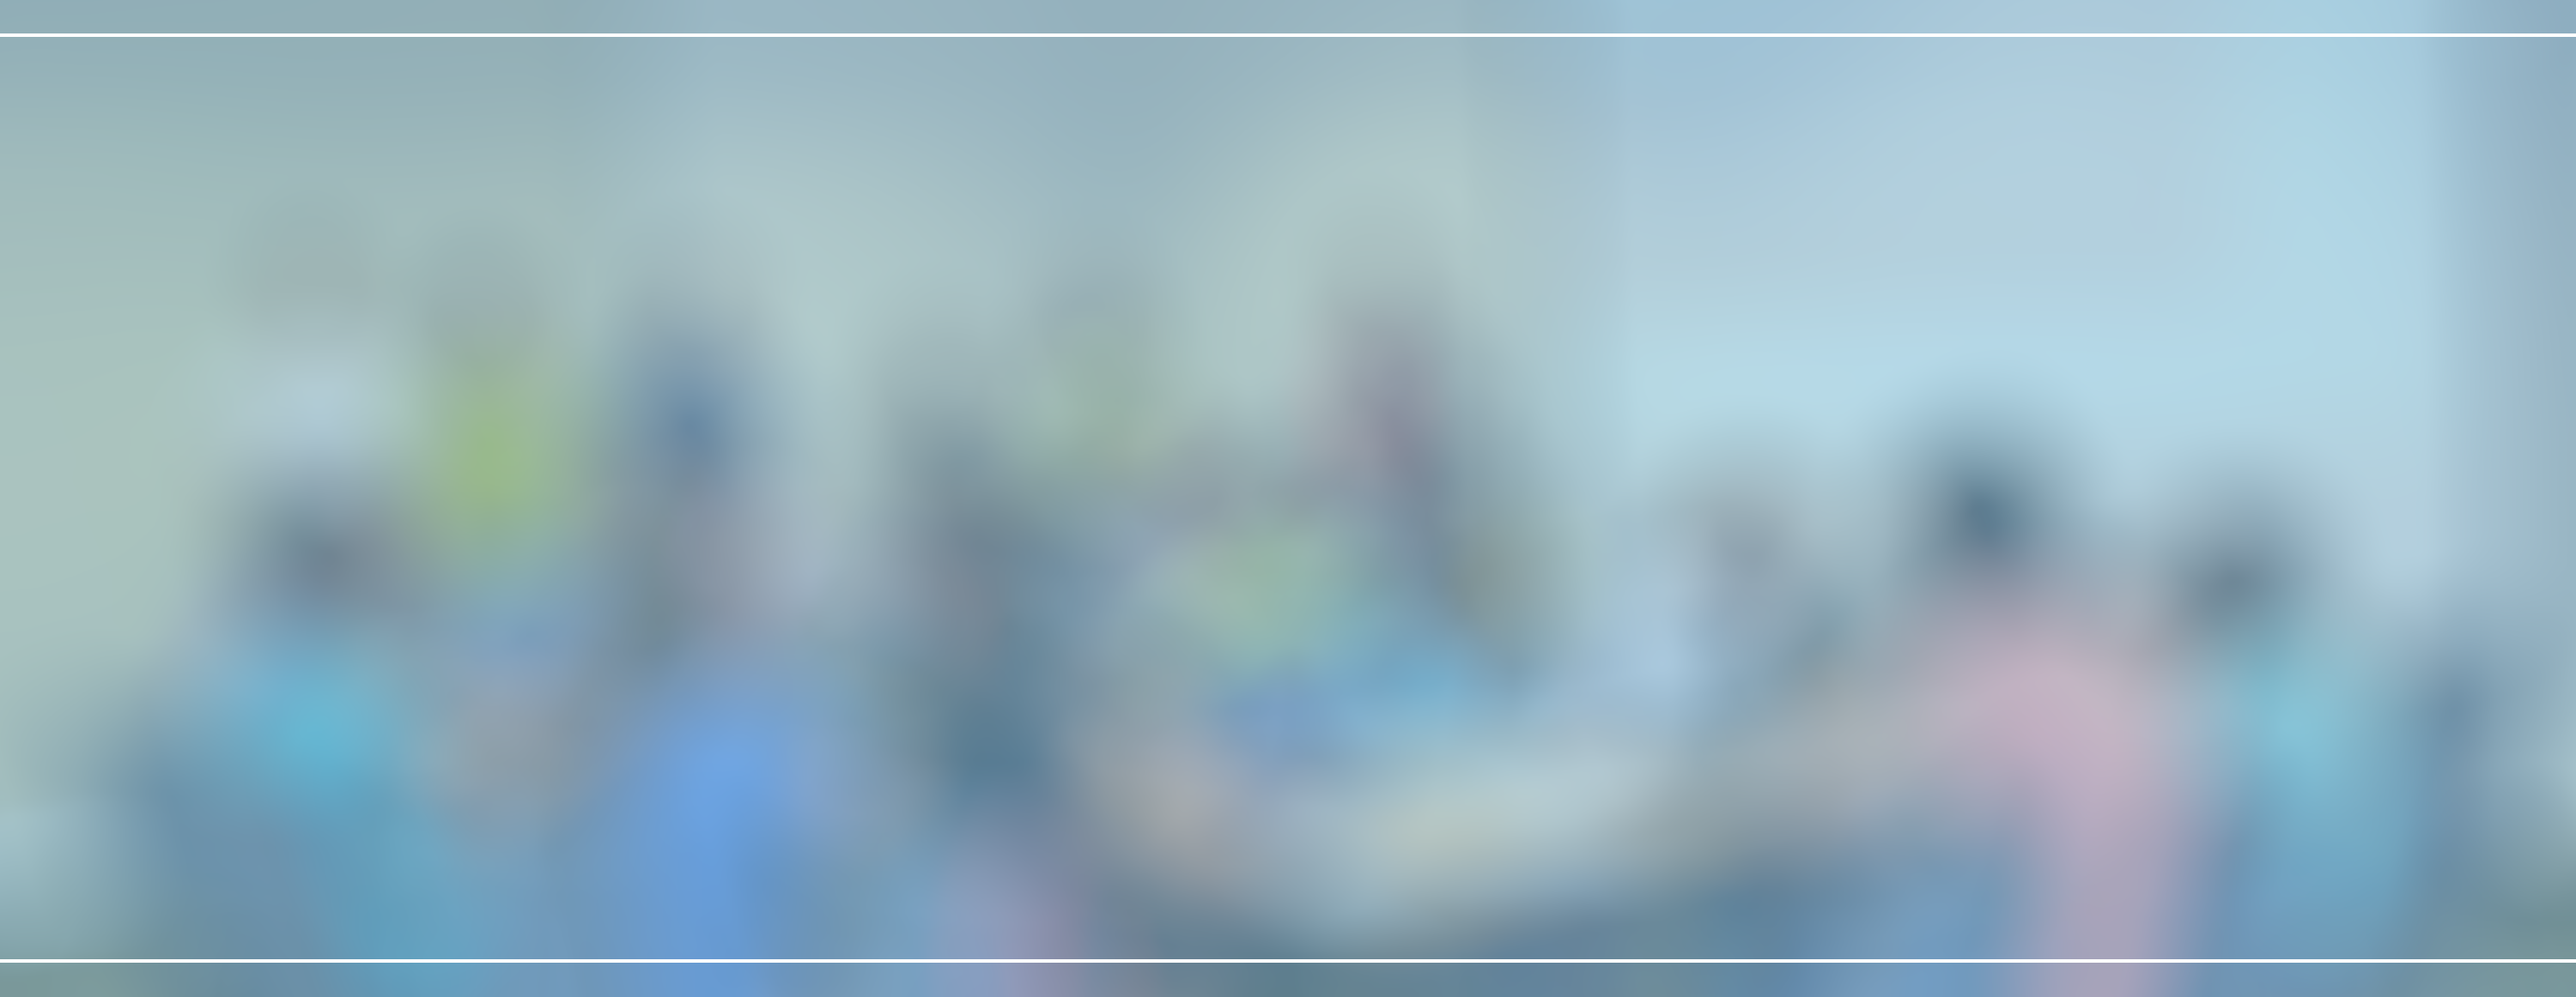
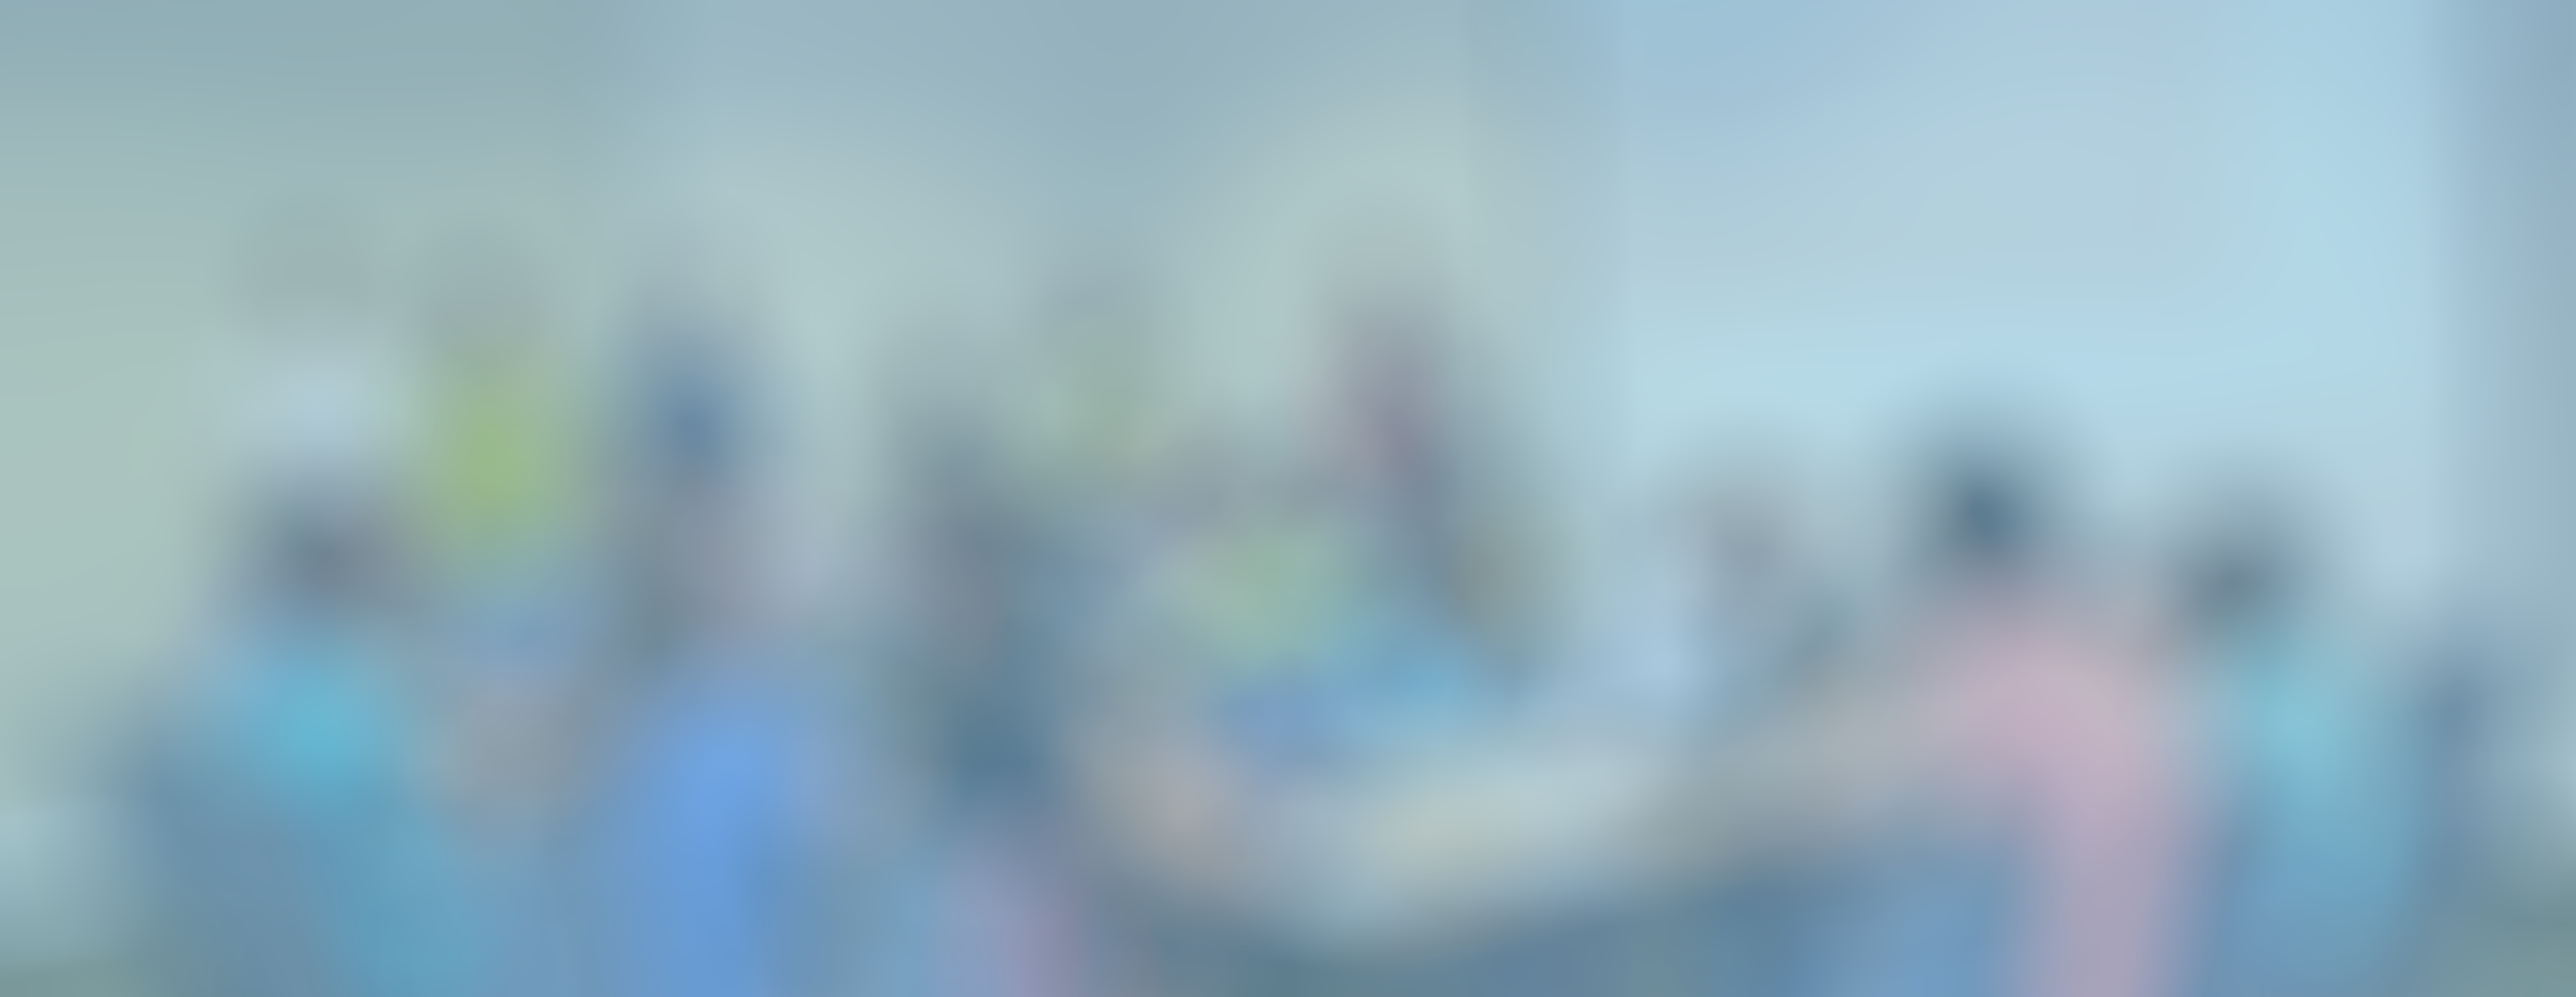
fixed background image etc

Changed region(s): [[0.0, 0.9604, 1.0, 0.9914], [0.0, 0.031, 1.0, 0.062]]

diff --git a/css/main.css b/css/main.css
@@ -23,13 +23,26 @@ div.positioner {
 div.project_container {
     background: black; 
     width:100%; 
-    height: 100px; 
+    height: 200px; 
     position: relative; 
     top: 200px;
     border-left: 3px; 
-    margin: 0 auto; 
+    margin: 10 auto; 
+    padding: 100px; 
     clear:both;
-    background-image: url('https://github.com/tiffanyjc/tiffanyjc.github.io/blob/master/images/project_codingcamp_noblur.png?raw=true'); 
+    background-image: url('https://github.com/tiffanyjc/tiffanyjc.github.io/blob/master/images/project_codingcamp_blur.png?raw=true'); 
+    background-size:cover;
+    color: white; 
+    font-family: 'Droid Sans', sans-serif; 
+    text-align: justify; 
+}
+
+div.project_container h1 {
+    color: white; 
+    font-family: 'Droid Sans', sans-serif; 
+    text-decoration:overline underline; 
+    font-size: 15 px; 
+    letter-spacing: 3px; 
 }
 
 div.positioner_nav {

diff --git a/pages/projects.html b/pages/projects.html
@@ -28,6 +28,7 @@
     <body>
     
         <div class="project_container">
+            <h1> code@thelibrary </h1>
             hello world
         </div>
     </body>
